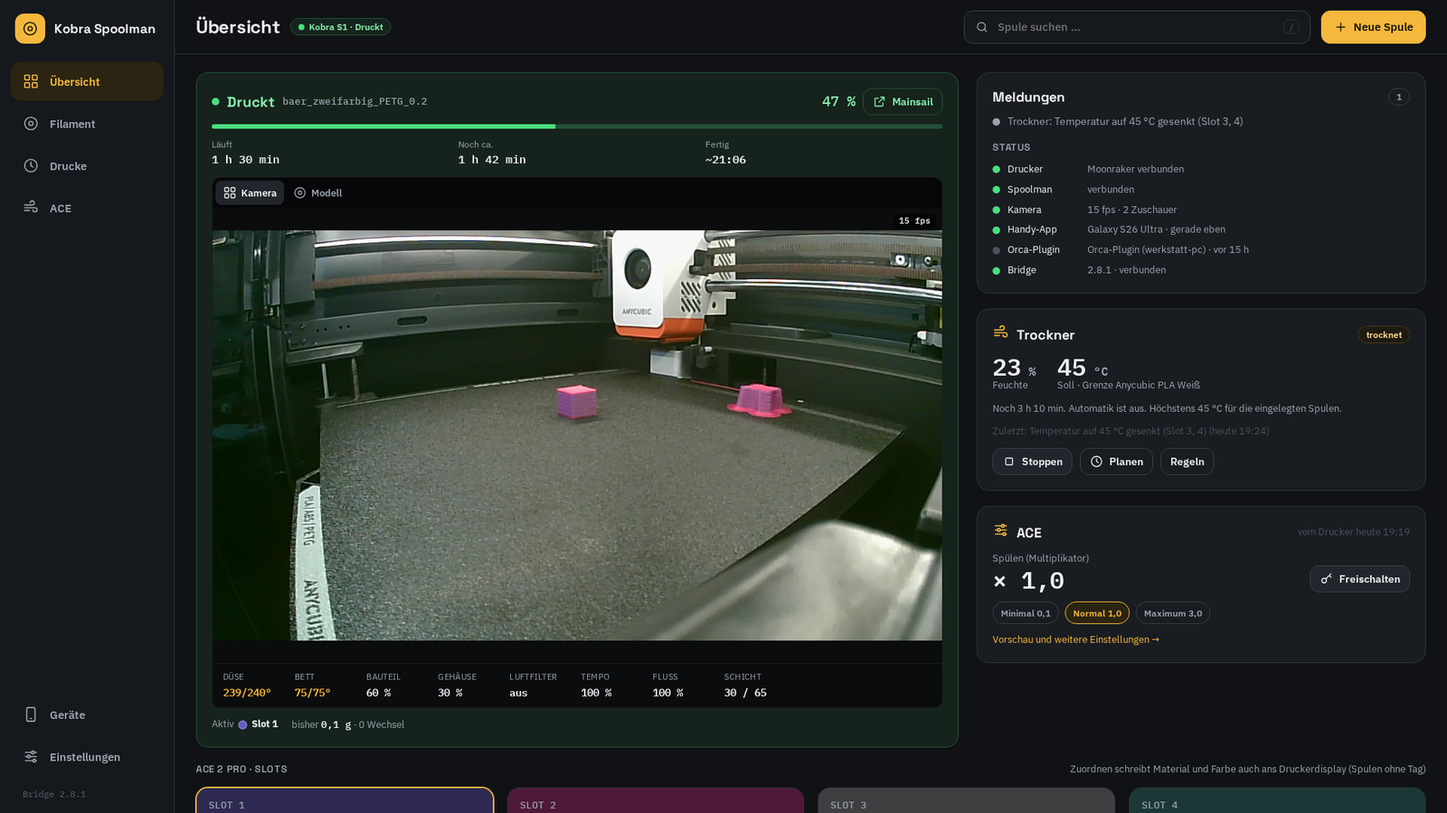
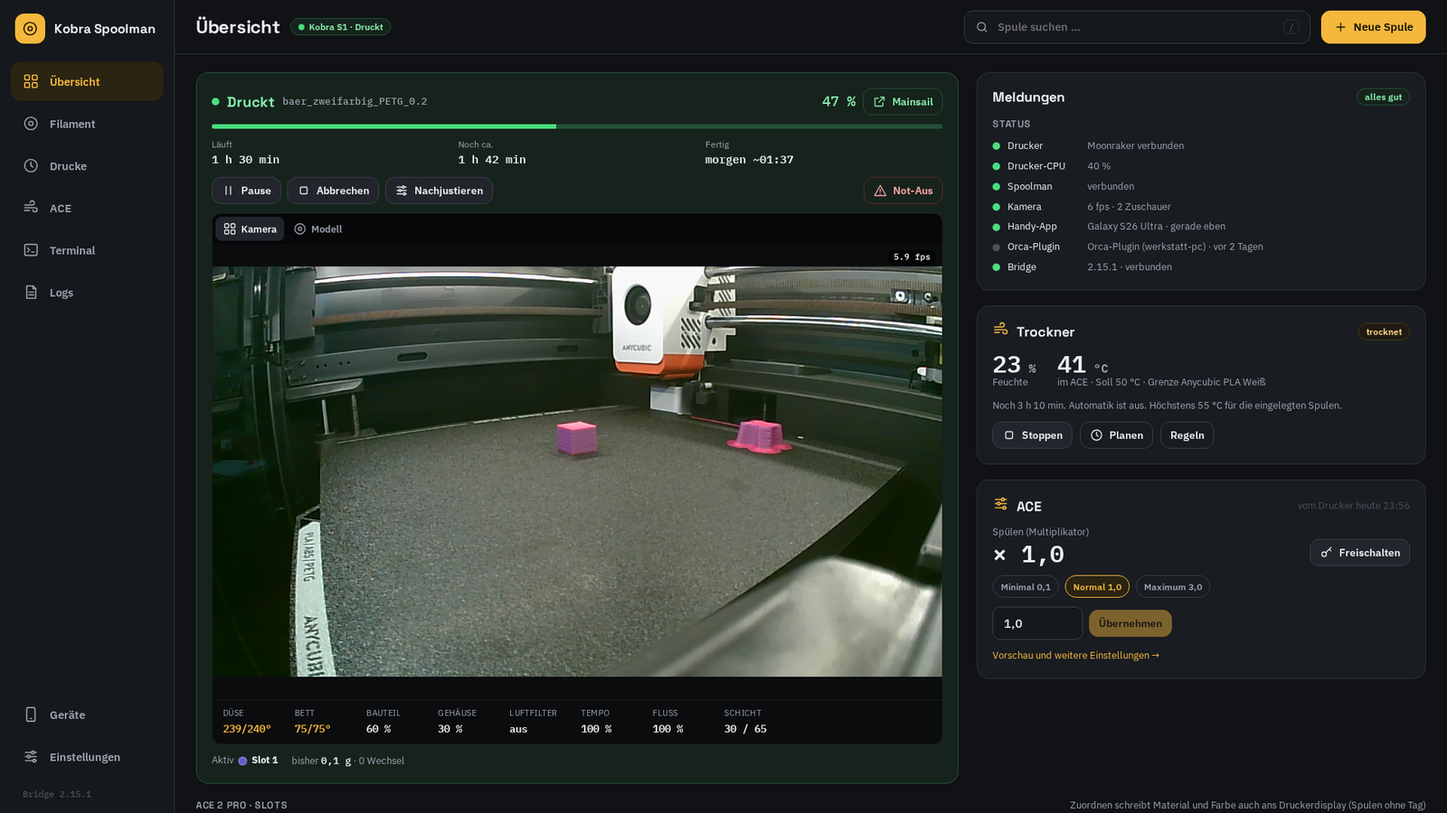
Bridge 2.15.2: dryer fix, docs and screenshots refreshed

diff --git a/bridge/app/acebridge/__init__.py b/bridge/app/acebridge/__init__.py
@@ -1,11 +1,14 @@
 """ace-lane-bridge v2 - Kobra S1 / ACE 2 Pro <-> Spoolman <-> OrcaSlicer."""
 
-__version__ = "2.15.1"
+__version__ = "2.15.2"
 __app_name__ = "ace-lane-bridge"
 __description__ = "Kobra S1 mit ACE 2 Pro ↔ Spoolman ↔ OrcaSlicer"
 
 # Neueste Version zuerst. Wird in der Weboberflaeche unter "Einstellungen" angezeigt.
 CHANGELOG = [
+    ("2.15.2", "2026-10-03", [
+        "Trockner: Restzeit richtig (die ACE meldet Sekunden), Ist-Temperatur auch beim Trocknen",
+    ]),
     ("2.15.1", "2026-10-02", [
         "Trockner: Standardwerte nach Herstellerangaben – PLA/TPU 55 °C statt 45/50, PETG bleibt 60",
         "Kamerabild auf breiten Bildschirmen mittig",

diff --git a/README.de.md b/README.de.md
@@ -27,6 +27,9 @@ Lüfter, Hilfslüfter, Abluft, Flow, Pressure Advance, Retraction. Ab dann:
   und steuerst den **ACE-Trockner** – ohne Spoolmans eigene Oberfläche.
 - Änderst du ein Profil in Orca, landet die Änderung nach Rückfrage **in Spoolman**.
 - Nach dem Slicen zeigt das Orca-Panel, **wie viel jede Spule braucht**, und warnt, wenn eine nicht reicht.
+- Die Bridge ist auch ein **Druckermonitor, der OctoApp ersetzt**: Kamera-Restream, der die
+  Drucker-CPU schont, Pause/Abbrechen/Nachjustieren, Terminal und Logs, Benachrichtigungen aufs
+  Handy – und Spulen mit unseren NFC-Tags werden beim Einlegen **von selbst ihrem Slot zugeordnet**.
 
 <p align="center">
   <img src="docs/images/web-overview.png" width="860" alt="Weboberfläche: Drucker mit Kamera, Meldungen und Status, Trockner, ACE, Slots"><br>
@@ -36,7 +39,7 @@ Lüfter, Hilfslüfter, Abluft, Flow, Pressure Advance, Retraction. Ab dann:
 <table>
   <tr>
     <td align="center"><img src="docs/images/web-phone.png" width="230" alt="Weboberfläche auf dem Handy"><br><sub>Weboberfläche auf dem Handy</sub></td>
-    <td align="center"><img src="docs/images/app-slots.png" width="230" alt="Android-App"><br><sub>Android-App</sub></td>
+    <td align="center"><img src="docs/images/app-start.png" width="230" alt="Android-App"><br><sub>Android-App</sub></td>
     <td align="center"><img src="docs/images/orca-panel.png" width="230" alt="Orca-Seitenpanel"><br><sub>Orca-Seitenpanel</sub></td>
   </tr>
 </table>
@@ -72,9 +75,9 @@ Moonraker-Clients); Browser, App und Orca-Plugin reden alle mit der Bridge.
 
 | Baustein | Aufgabe |
 |---|---|
-| **[ace-lane-bridge](bridge/)** (Docker) | Verbindet Moonraker und Spoolman. Weboberfläche, Slot-Zuordnung, `lane_data` für Orca, Verbrauch messen und pro Spule buchen, offene Posten, Druckhistorie, Trockner-Automatik, Geräte koppeln, Schnittstelle für App und Plugin. |
+| **[ace-lane-bridge](bridge/)** (Docker) | Verbindet Moonraker und Spoolman. Weboberfläche, Slot-Zuordnung (automatisch per NFC-Tag), `lane_data` für Orca, Verbrauch messen und pro Spule buchen, offene Posten, Druckhistorie, Spülen pro Farbwechsel, Trockner-Automatik und ACE-Einstellungen, Kamera-Restream, Drucksteuerung, Terminal und Logs, Meldungen, Geräte koppeln, Schnittstelle für App und Plugin, liefert das App-Update aus. |
 | **[Kobra Spoolman](orca-plugin/)** (Orca-Plugin) | Ein Orca-Filamentprofil pro Spoolman-Filament (`SM000010` …), Seitenpanel mit Slots und Profilprüfung, Verbrauchsvorschau nach dem Slicen, Rücksync von Profiländerungen nach Spoolman. |
-| **[Android-App](android/)** (Vorschau) | Slots, Spulenkarte, neue Spulen und Filamente, ACE-Trockner, schreibt ACE-taugliche NFC-Tags, Koppeln per QR-Code. |
+| **[Android-App](android/)** | Drucker mit Kamera und Steuerung, Benachrichtigungen im Hintergrund, Slots, Spulenkarte, neue Spulen und Filamente, ACE-Trockner und -Einstellungen, schreibt ACE-taugliche NFC-Tags (zwei pro Spule), Koppeln per QR-Code, Updates über die Bridge. |
 | **[spoolman_setup.py](spoolman/)** | Legt einmalig die Spoolman-Zusatzfelder (alle Orca-Filamentwerte) und Materialvorlagen an. |
 | **[orca-kobra](https://github.com/xNoVoSx/orca-kobra)** (eigenes Repo) | Nächtliches OrcaSlicer-AppImage mit drei kleinen Patches: Profilwahl über `lane_data.filament_id` ([PR #14423](https://github.com/OrcaSlicer/OrcaSlicer/pull/14423)), eine Korrektur der Plugin-Sandbox unter Linux und Slice-Statistik für Plugins. Aktualisiert sich selbst. |
 
@@ -107,8 +110,9 @@ Ausführlich: **[docs/de/installation.md](docs/de/installation.md)**.
 
 1. Neues Filament → in der Weboberfläche oder App anlegen (oder in Spoolman): Vorlage oder
    Orca-Basisprofil, dazu nur, was du abweichend willst.
-2. Spule einlegen → in der Weboberfläche oder App dem Slot zuordnen; Spulen, die zu dem passen, was
-   die ACE meldet, stehen oben. Bei Spulen ohne Anycubic-Tag gehen Material und Farbe ans Druckerdisplay.
+2. Spule einlegen → mit unseren NFC-Tags ordnet die Bridge sie selbst zu; sonst in der Weboberfläche
+   oder App dem Slot zuordnen (Spulen, die zu dem passen, was die ACE meldet, stehen oben). Bei Spulen
+   ohne Tag gehen Material und Farbe ans Druckerdisplay.
 3. In Orca den Filament-**Sync**-Knopf drücken → die `SM…`-Profile landen in Slot 1–4.
 4. Drucken → der Verbrauch wird pro Spule gebucht, live in der Weboberfläche und in Spoolman.
 5. Profil in Orca anpassen und speichern → bestätigen → die Änderung steht in Spoolman.
@@ -126,9 +130,17 @@ Mehr: **[docs/de/usage.md](docs/de/usage.md)**.
     <td align="center"><img src="docs/images/web-dryer.png" width="420" alt="Trockner-Automatik"><br><sub>ACE-Trockner: Automatik nach Feuchte, nie heißer als die empfindlichste Spule</sub></td>
     <td align="center"><img src="docs/images/web-devices.png" width="420" alt="Gerät koppeln"><br><sub>Geräte: ein Schlüssel pro Gerät, Koppeln per Code oder QR</sub></td>
   </tr>
+  <tr>
+    <td align="center"><img src="docs/images/web-ace.png" width="420" alt="ACE-Seite"><br><sub>ACE: Spül-Multiplikator mit der Spülmenge jedes Farbwechsels, Nachladen, Leer-Erkennung, Temperaturgrenze</sub></td>
+    <td align="center"><img src="docs/images/web-terminal.png" width="420" alt="Terminal"><br><sub>Terminal: Antworten des Druckers und jeder Befehl mit Absender, Riskantes fragt nach</sub></td>
+  </tr>
+  <tr>
+    <td align="center"><img src="docs/images/web-logs.png" width="420" alt="Logs"><br><sub>Logs: Bridge-Log, Logdateien des Druckers, Rohdaten jedes Drucks</sub></td>
+    <td align="center"><img src="docs/images/app-notification.png" width="420" alt="Druck-Benachrichtigung"><br><sub>App: der laufende Druck in der Benachrichtigungsleiste</sub></td>
+  </tr>
 </table>
 
-Auf einem 5120×1440-Ultrawide steht alles nebeneinander – Drucker, Slots, Regal, Spulendetails und Drucke:
+Auf einem 5120×1440-Ultrawide passt die ganze Übersicht auf einen Bildschirm – Drucker mit großer Kamera, Slots, Trockner, ACE, Meldungen:
 
 <p align="center"><img src="docs/images/web-ultrawide.png" width="100%" alt="Weboberfläche auf einem Ultrawide-Bildschirm"></p>
 
@@ -175,8 +187,9 @@ Die Bridge gehört ins Heimnetz; sie hat kein TLS.
 | 1 | Moonraker- und Spoolman-Anbindung, Slot-Zuordnung, `lane_data`, Telemetrie | ✅ fertig |
 | 2 | Verbrauch pro Spule, Journal, offene Posten, Soll-Abgleich, Historie | ✅ fertig |
 | 3 | Orca-Profile aus Spoolman, Seitenpanel, Rücksync, gepatchter Orca-Build, Verbrauchsvorschau nach dem Slicen | ✅ fertig (Profile ohne Neustart nachladen ist zurückgestellt, siehe [Befunde](docs/findings.md)) |
-| 4 | Weboberfläche, Android-App, Koppeln, ACE-Trockner, NFC-Tags | ✅ Weboberfläche, Koppeln, Trockner · 🧪 App (Vorschau) · 🔜 Spulen beim Einlegen am Tag erkennen |
-| – | Spülen pro Farbwechsel: Spülmenge der Firmware pro Übergang lernen, für genaue Buchung und Vorschau | 🔜 geplant |
+| 4 | Weboberfläche, Android-App, Koppeln, ACE-Trockner, NFC-Tags, Spulen beim Einlegen am Tag erkennen | ✅ fertig |
+| – | Spülen pro Farbwechsel: wie die Firmware für jeden Übergang gerechnet, Konstanten bei jedem Druck nachgeschärft | ✅ fertig |
+| – | Druckermonitor (ersetzt OctoApp): Kamera-Restream, Drucksteuerung, Terminal, Logs, Benachrichtigungen aufs Handy | ✅ fertig · 🔜 Widget, Prüfung beim Druckstart, KI-Fehlererkennung |
 | 5 | Home Assistant über MQTT (Slots, Restgewicht, Meldungen) | 🔜 geplant |
 
 ## Dank

diff --git a/README.md b/README.md
@@ -27,6 +27,9 @@ aux fan, exhaust fan, flow, pressure advance, retraction. From then on:
   control the **ACE dryer** — without touching Spoolman's own UI.
 - Changes you make to a profile in Orca are **written back to Spoolman** after you confirm.
 - After slicing, the Orca panel shows **what each spool needs** for the plate and warns if one is too short.
+- The bridge is also a **printer monitor that replaces OctoApp**: camera restream that spares the
+  printer's CPU, pause/cancel/fine-tuning, terminal and logs, notifications on the phone — and
+  spools with our NFC tags are **assigned to their slot by themselves** when loaded.
 
 <p align="center">
   <img src="docs/images/web-overview.png" width="860" alt="Web UI: printer with camera, messages and status, dryer, ACE, slots"><br>
@@ -36,7 +39,7 @@ aux fan, exhaust fan, flow, pressure advance, retraction. From then on:
 <table>
   <tr>
     <td align="center"><img src="docs/images/web-phone.png" width="230" alt="Web UI on a phone"><br><sub>Web UI on the phone</sub></td>
-    <td align="center"><img src="docs/images/app-slots.png" width="230" alt="Android app"><br><sub>Android app</sub></td>
+    <td align="center"><img src="docs/images/app-start.png" width="230" alt="Android app"><br><sub>Android app</sub></td>
     <td align="center"><img src="docs/images/orca-panel.png" width="230" alt="Orca side panel"><br><sub>Orca side panel</sub></td>
   </tr>
 </table>
@@ -72,9 +75,9 @@ for Moonraker clients); the browser, the app and the Orca plugin all talk to the
 
 | Component | What it does |
 |---|---|
-| **[ace-lane-bridge](bridge/)** (Docker) | Connects Moonraker and Spoolman. Web UI, slot ↔ spool assignment, writes `lane_data` for Orca, measures and books consumption per spool, open items, print history, ACE dryer automation, device pairing, API for app and plugin. |
+| **[ace-lane-bridge](bridge/)** (Docker) | Connects Moonraker and Spoolman. Web UI, slot ↔ spool assignment (automatic by NFC tag), writes `lane_data` for Orca, measures and books consumption per spool, open items, print history, purge per colour change, ACE dryer automation and ACE settings, camera restream, print control, terminal and logs, messages, device pairing, API for app and plugin, ships the app update. |
 | **[Kobra Spoolman](orca-plugin/)** (Orca plugin) | One Orca filament profile per Spoolman filament (`SM000010` …), side panel with slots and profile check, usage preview after slicing, back-sync of profile edits to Spoolman. |
-| **[Android app](android/)** (preview) | Slots, spool card, new spools and filaments, ACE dryer, writes ACE-compatible NFC tags, pairing by QR code. |
+| **[Android app](android/)** | Printer with camera and controls, notifications in the background, slots, spool card, new spools and filaments, ACE dryer and settings, writes ACE-compatible NFC tags (two per spool), pairing by QR code, updates through the bridge. |
 | **[spoolman_setup.py](spoolman/)** | One-time setup of the Spoolman extra fields (all Orca filament settings) and material templates. |
 | **[orca-kobra](https://github.com/xNoVoSx/orca-kobra)** (separate repo) | Nightly OrcaSlicer AppImage with three small patches: preset matching via `lane_data.filament_id` ([PR #14423](https://github.com/OrcaSlicer/OrcaSlicer/pull/14423)), a Linux plugin-sandbox fix and read-only slice statistics for plugins. Updates itself. |
 
@@ -109,9 +112,9 @@ Full guide: **[docs/installation.md](docs/installation.md)**.
 
 1. New filament → create it in the web UI or the app (or in Spoolman): template or Orca base
    profile, plus whatever you want to override.
-2. Load the spool → assign it to its slot in the web UI or the app; spools that match what the ACE
-   reports come first. Spools without an Anycubic tag get their material and colour passed to the
-   printer display.
+2. Load the spool → with our NFC tags it is assigned to its slot by itself; otherwise assign it in
+   the web UI or the app (spools that match what the ACE reports come first). Spools without a tag get
+   their material and colour passed to the printer display.
 3. In Orca press the filament **sync** button → the `SM…` profiles land in slots 1–4.
 4. Print → consumption is booked per spool, visible live in the web UI and in Spoolman.
 5. Tweak a profile in Orca and save → confirm → the change is stored in Spoolman.
@@ -129,9 +132,17 @@ Details: **[docs/usage.md](docs/usage.md)**.
     <td align="center"><img src="docs/images/web-dryer.png" width="420" alt="Dryer automation"><br><sub>ACE dryer: automation by humidity, never hotter than the most sensitive spool</sub></td>
     <td align="center"><img src="docs/images/web-devices.png" width="420" alt="Pairing a device"><br><sub>Devices: one key per device, pairing by code or QR</sub></td>
   </tr>
+  <tr>
+    <td align="center"><img src="docs/images/web-ace.png" width="420" alt="ACE page"><br><sub>ACE: purge multiplier with the purge of every colour change, refill, runout detection, temperature limit</sub></td>
+    <td align="center"><img src="docs/images/web-terminal.png" width="420" alt="Terminal"><br><sub>Terminal: printer answers and every command with its sender, risky ones ask first</sub></td>
+  </tr>
+  <tr>
+    <td align="center"><img src="docs/images/web-logs.png" width="420" alt="Logs"><br><sub>Logs: bridge log, the printer's log files, raw print recordings</sub></td>
+    <td align="center"><img src="docs/images/app-notification.png" width="420" alt="Print notification"><br><sub>App: the running print in the notification bar</sub></td>
+  </tr>
 </table>
 
-On a 5120×1440 ultrawide everything sits side by side — printer, slots, shelf, spool details and prints:
+On a 5120×1440 ultrawide the whole overview fits on one screen — printer with a large camera, slots, dryer, ACE, messages:
 
 <p align="center"><img src="docs/images/web-ultrawide.png" width="100%" alt="Web UI on an ultrawide screen"></p>
 
@@ -178,8 +189,9 @@ Keep the bridge inside your home network; it has no TLS.
 | 1 | Moonraker + Spoolman connection, slot assignment, `lane_data`, telemetry | ✅ done |
 | 2 | Consumption per spool, journal, open items, target comparison, history | ✅ done |
 | 3 | Orca profiles from Spoolman, side panel, back-sync, patched Orca build, usage preview after slicing | ✅ done (reloading profiles without a restart is deferred, see [findings](docs/findings.md)) |
-| 4 | Web UI, Android app, pairing, ACE dryer, NFC tags | ✅ web UI, pairing, dryer · 🧪 app (preview) · 🔜 recognise spools by their tag when loaded |
-| — | Purge per colour change: learn the firmware's purge per transition for exact bookings and previews | 🔜 planned |
+| 4 | Web UI, Android app, pairing, ACE dryer, NFC tags, spools recognised by their tag when loaded | ✅ done |
+| — | Purge per colour change: computed like the firmware for every transition, constants refined on every print | ✅ done |
+| — | Printer monitor (replaces OctoApp): camera restream, print control, terminal, logs, phone notifications | ✅ done · 🔜 home-screen widget, check at print start, AI print-failure detection |
 | 5 | Home Assistant via MQTT (slots, remaining weight, notifications) | 🔜 planned |
 
 ## Credits

diff --git a/docs/de/usage.md b/docs/de/usage.md
@@ -12,7 +12,7 @@ abdeckt (z.B. einen Hersteller umbenennen).
 | Bildschirmbreite | Aufbau |
 |---|---|
 | Handy | Leiste unten: *Übersicht*, *Filament*, *Drucke*, *Mehr* |
-| Desktop | Seitenleiste links: *Übersicht*, *Filament* (Spulen und Sorten), *Drucke*, *ACE*, Geräte, Einstellungen |
+| Desktop | Seitenleiste links: *Übersicht*, *Filament* (Spulen und Sorten), *Drucke*, *ACE*, *Terminal*, *Logs*, Geräte, Einstellungen |
 | Ultrawide (ab 3000 px, z.B. 5120×1440) | die Übersicht passt auf einen Bildschirm: Drucker mit großer Kamera, Slots mit Trockner und ACE, Meldungen und Status |
 
 Die **Übersicht** ist der Druckermonitor: Kamera (das Modell nur während eines Drucks), Druckstatus,
@@ -115,7 +115,8 @@ Spulen; Tippen öffnet die Spule unter *Spulen*.
 
 ## Trocknen (ACE-Trockner)
 
-Die Trockner-Karte zeigt Feuchte und Temperatur der ACE und den Zustand. **Trocknen** / **Stoppen**
+Die Trockner-Karte zeigt Feuchte und aktuelle Temperatur der ACE; beim Trocknen dazu das Soll, das
+Filament, das die Grenze setzt, und die Restzeit. **Trocknen** / **Stoppen**
 geht von Hand; **Regeln** stellt die Automatik ein: Start, wenn die Feuchte über eine Schwelle steigt
 (Standard 20 %), Stopp unter einer zweiten (Standard 10 %) oder nach einer Höchstdauer, danach eine
 Pause; wahlweise auch während eines Drucks.
@@ -123,8 +124,8 @@ Pause; wahlweise auch während eines Drucks.
 Die Temperatur liegt **nie über dem, was das empfindlichste eingelegte Filament verträgt** – Feld
 *Trocknen max.* am Filament, sonst an der Vorlage, sonst ein vorsichtiger Wert pro Material
 (PLA 55 °C, PETG 60 °C, TPU 55 °C, …) – und nie über dem, was die ACE kann (ACE 2 Pro 65 °C, ACE Pro 55 °C).
-Wird beim Trocknen eine empfindlichere Spule eingelegt, senkt die Bridge die Temperatur sofort. Die
-Seite **Trockner** zeigt, welcher Slot die Grenze setzt.
+Wird beim Trocknen eine empfindlichere Spule eingelegt, senkt die Bridge die Temperatur sofort und
+behält die Restzeit. Die Seite **ACE** listet die Grenze jedes Slots.
 
 ## Einen Druck beobachten
 
@@ -172,8 +173,8 @@ Ein neuer Multiplikator gilt ab dem nächsten Farbwechsel.
    Die Bridge bucht bei jedem Farbwechsel, alle 5 Minuten und am Ende in Spoolman. Fertige Drucke
    stehen unter **Drucke** mit Gramm pro Spule.
 
-Die Weboberfläche *zeigt* den Drucker nur an – Pause, Abbrechen und alles andere bleiben in
-Mainsail/Fluidd (*In Mainsail öffnen* auf der Druckerkarte).
+Pause, Abbrechen und Nachjustieren gehen auf der Druckerkarte ([unten](#einen-druck-steuern));
+Dateien, Makros und Druck starten bleiben in Mainsail/Fluidd (*Mainsail* auf der Druckerkarte).
 
 ### So wird die Verbrauchsvorschau berechnet
 
@@ -221,6 +222,8 @@ und wieder eingeschaltet werden; Rinkhals sperrt den Firmware-Neustart, weil GoK
 
 ## Benachrichtigungen aufs Handy
 
+<p align="center"><img src="../images/app-notification.png" width="420" alt="Druck-Benachrichtigung"></p>
+
 Die App überwacht den Drucker im Hintergrund und ersetzt den OctoApp-Companion (der am Kobra S1 etwa zwei
 Drittel der Drucker-CPU brauchte). Sie fragt nur die Bridge, der Drucker merkt davon nichts. Während eines
 Drucks zeigt die Leiste Fortschritt, Restzeit, Fertig-Uhrzeit und ein Kamerabild; es gibt einen Ton bei
@@ -239,6 +242,8 @@ nach. Senden geht nur auf gekoppelten Geräten.
 **Logs**: *Bridge* ist das Log der Bridge (Filter nach Stufe, Suche, Download – kein Umweg über
 Portainer); *Drucker* zeigt das Ende der Logdateien des Druckers (`moonraker.log`, …; nur die letzten
 200 KB, auf Wunsch mehr); *Druck-Aufzeichnungen* sind die Rohdaten jedes Drucks zum Herunterladen.
+
+<p align="center"><img src="../images/web-terminal.png" width="760" alt="Terminal"></p>
 
 ## Geräte
 

diff --git a/docs/usage.md b/docs/usage.md
@@ -11,7 +11,7 @@ NFC tags. Spoolman's own UI is only needed for things the bridge does not cover 
 | Screen width | Layout |
 |---|---|
 | Phone | bar at the bottom: *Übersicht*, *Filament*, *Drucke*, *Mehr* |
-| Desktop | side bar on the left: *Übersicht*, *Filament* (spools and filament types), *Drucke*, *ACE*, devices, settings |
+| Desktop | side bar on the left: *Übersicht*, *Filament* (spools and filament types), *Drucke*, *ACE*, *Terminal*, *Logs*, devices, settings |
 | Ultrawide (≥ 3000 px, e.g. 5120×1440) | the overview fits on one screen: printer with a large camera, slots with dryer and ACE, messages and status |
 
 The **overview** is the printer monitor: the camera (the model only while printing), print status,
@@ -112,7 +112,8 @@ A filament type lists its spools; tapping one opens it under *Spulen*.
 
 ## Drying (ACE dryer)
 
-The dryer card shows the ACE's humidity and temperature and the dryer state. **Trocknen** /
+The dryer card shows the ACE's humidity and its current temperature; while drying also the set point,
+the filament that limits it and the time left. **Trocknen** /
 **Stoppen** works by hand; **Regeln** sets the automation: start when the humidity rises above a
 threshold (default 20 %), stop below a second one (default 10 %) or after a maximum time, then a
 pause; optionally also while printing.
@@ -120,8 +121,8 @@ pause; optionally also while printing.
 The temperature is **never higher than the most sensitive loaded filament allows** — the field
 *Trocknen max.* on the filament, else on its template, else a cautious default per material
 (PLA 55 °C, PETG 60 °C, TPU 55 °C, …) — and never higher than the ACE can do (ACE 2 Pro 65 °C, ACE Pro 55 °C).
-If a more sensitive spool is loaded while drying, the bridge lowers the temperature at once. The
-**Trockner** page shows which slot sets the limit.
+If a more sensitive spool is loaded while drying, the bridge lowers the temperature at once and keeps
+the remaining time. The **ACE** page lists the limit of every slot.
 
 ## Watching a print
 
@@ -167,8 +168,8 @@ multiplier applies from the next colour change.
    (*dieser Druck*). The bridge books into Spoolman at every colour change, every 5 minutes and at
    the end. Finished prints appear under **Drucke** with grams per spool.
 
-The web UI only *shows* the printer — pause, cancel and everything else stay in Mainsail/Fluidd
-(*In Mainsail öffnen* on the printer card).
+Pause, cancel and fine-tuning work from the printer card ([below](#controlling-a-print)); files,
+macros and starting a print stay in Mainsail/Fluidd (*Mainsail* on the printer card).
 
 ### How the usage preview is calculated
 
@@ -216,6 +217,8 @@ Rinkhals blocks a firmware restart because GoKlipper would hang.
 
 ## Notifications on the phone
 
+<p align="center"><img src="images/app-notification.png" width="420" alt="Print notification"></p>
+
 The app watches the printer in the background and replaces the OctoApp companion (which on the Kobra S1
 took about two thirds of the printer's CPU). It only asks the bridge, so the printer does not notice.
 While printing, the notification bar shows progress, remaining and finish time and a camera picture;
@@ -234,6 +237,8 @@ paired device.
 **Logs**: *Bridge* is the bridge's own log (filter by level, search, download — no detour through
 Portainer); *Drucker* shows the end of the printer's log files (`moonraker.log`, …; only the last
 200 KB, more on request); *Druck-Aufzeichnungen* are the raw recordings of each print for download.
+
+<p align="center"><img src="images/web-terminal.png" width="760" alt="Terminal"></p>
 
 ## Devices
 

diff --git a/docs/android-app.md b/docs/android-app.md
@@ -2,16 +2,20 @@
 
 [Back to README](../README.md)
 
-Status: **preview** — feature-complete for daily use, tested on the emulator; not yet signed or
-released, real NFC stickers still to be tested on the phone. Code: [`android/`](../android).
+Status: **released** — signed APK on every GitHub release, updates through the bridge; in daily use
+on a Galaxy S26 Ultra, NFC tags and automatic slot assignment tested on the real printer.
+Code: [`android/`](../android).
 
 <table>
   <tr>
-    <td align="center"><img src="images/app-slots.png" width="230" alt="Slots"><br><sub>Slots, printer, dryer, shelf</sub></td>
-    <td align="center"><img src="images/app-spool.png" width="230" alt="Spool card"><br><sub>Spool card: slot, shelf, tag, archive</sub></td>
-    <td align="center"><img src="images/app-adddevice.png" width="230" alt="Devices"><br><sub>Devices: QR code for the next device</sub></td>
+    <td align="center"><img src="images/app-start.png" width="230" alt="Start"><br><sub>Start: camera, print, printer data, controls</sub></td>
+    <td align="center"><img src="images/app-slots.png" width="230" alt="Slots"><br><sub>The four ACE slots and the dryer</sub></td>
+    <td align="center"><img src="images/app-spool.png" width="230" alt="Spool card"><br><sub>Spool card: slot, shelf, tags, archive</sub></td>
   </tr>
 </table>
+
+<p align="center"><img src="images/app-notification.png" width="420" alt="Print notification"><br>
+<sub>The print in the notification bar: progress, remaining and finish time, layer, camera picture</sub></p>
 
 ## What it does
 
@@ -41,7 +45,7 @@ Tabs at the bottom: **Start · Meldungen · (scan) · Filament · Mehr**.
   with their source, the printer's answers, and the bridge log — sending G-code stays in the web UI's
   terminal), devices, settings.
 - **Spool card** — remaining weight, temperatures, template, last prints; *In Slot 1–4*,
-  *Ins Regal*, *Tag neu schreiben*, *Leer · archivieren*.
+  *Ins Regal*, *Tags schreiben*, *Leer · archivieren*.
 - **Scan** — hold a spool to the phone: known tag → spool card; an unknown **blank** sticker → write it
   for a new or an existing spool (then the second sticker); an unknown tag **with content** (e.g. an
   original Anycubic tag, write-protected) → new spool or link its UID to an existing one.
@@ -118,8 +122,6 @@ builds and tests the app on every push and attaches the debug APK.
 
 ## Next
 
-- Test with real NTAG215 stickers: does the ACE report our tag number (`AHPEBK-4711` →
-  `gate_spool_id` 4711)? If yes, the bridge assigns a spool to its slot by itself when it is loaded —
-  also during a print, so consumption continues on the new spool at once.
-- Signed release APK attached to the GitHub release (keystore as repository secret), own version in
-  the changelog.
+- Home-screen widget with progress and camera picture.
+- Spool swap during a print and the ACE's backup spool (*Automatisch nachladen*) still to be checked on
+  a real print: consumption has to continue on the spool of the new slot.

diff --git a/CHANGELOG.md b/CHANGELOG.md
@@ -6,6 +6,20 @@ Changes to the Orca patches and build: [orca-kobra CHANGELOG](https://github.com
 
 ## [Unreleased]
 
+## [2.15.2] – 2026-10-03
+
+### Fixed
+- Dryer: the ACE reports the remaining time in **seconds**, the bridge read it as minutes — the web UI
+  showed e.g. "Noch 278 h" for 4.6 h, and when the bridge lowered a running drying for a more
+  sensitive spool it restarted it for up to 24 h instead of the time left.
+- Web: the dryer card shows the ACE's current temperature while drying too, next to set point and limit
+  (before only the set point).
+
+### Docs
+- New screenshots of the web UI (overview, ACE, terminal, logs …) and the app (start, slots, spool
+  card, notification); README, usage and app pages brought up to date (app released, print control,
+  RFID automatic, purge per colour change done).
+
 ## [2.15.1] – 2026-10-02
 
 ### Changed

diff --git a/android/README.md b/android/README.md
@@ -1,6 +1,6 @@
 # Kobra Spoolman — Android app
 
-Status: **preview** — see [docs/android-app.md](../docs/android-app.md). Not released yet; CI attaches a debug APK to every run.
+Status: **released** — see [docs/android-app.md](../docs/android-app.md). Every release carries the signed APK; the bridge offers it to the app as an update. CI attaches a debug APK to every run.
 
 The app talks only to the [ace-lane-bridge](../bridge) (`/api/app/…`, [API](../docs/api.md#app-and-web-ui)).
 UI texts are German, like the plugin and the web UI.
